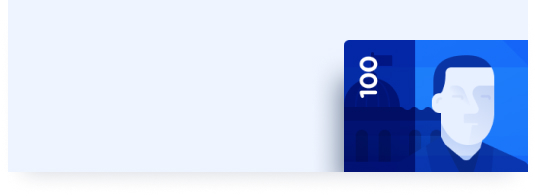
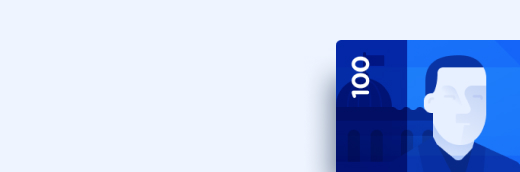
Updated use-case-bubble -amount-received image Added mixins for the modifier and responsive codes

Changed region(s): [[0.5846, 0.2035, 1.0, 1.0]]

diff --git a/sources/sass/page/components/_landing-components.scss b/sources/sass/page/components/_landing-components.scss
@@ -1,84 +1,96 @@
+@mixin use-case-bubble--amount-received {
+	max-width: 260px;
+	height: 86px;
+	color: #2044a5;
+	padding: 20px $spacing-triple $spacing-double;
+	background-size: cover;
+	box-shadow: 0px 8px 12px -8px rgba(15, 37, 69, 0.2);
+	border-radius: 8px;
+
+	> .label {
+		font: 700 1rem/1 $gotham-bold;
+		letter-spacing: -0.01em;
+		opacity: 0.8;
+	}
+
+	> .amount {
+		font: 700 2.29rem/1 $gotham-bold;
+		letter-spacing: -0.02em;
+		margin-top: $spacing-half;
+
+		> .currency {
+			display: inline-block;
+			width: 22.75px;
+			height: 28.44px;
+			padding: 1px 0 2.5px;
+			margin-right: $spacing-half;
+			background-size: 100%;
+		}
+	}
+}
+
+@mixin use-case-bubble--small-desktop {
+	&.-amount-received {
+		max-width: 151px;
+		height: 50.23px;
+		border-radius: 4.64615px;
+		padding: $spacing-secondary 14px 9px;
+
+		> .label {
+			font-size: 0.57rem;
+		}
+
+		> .amount {
+			font-size: 1.36rem;
+			margin-top: $spacing-quarter;
+
+			> .currency {
+				width: 13.21px;
+				height: 16.52px;
+				padding: 0.5px 0 1.5px;
+				margin-right: $spacing-quarter;
+			}
+		}
+	}
+}
+
+@mixin use-case-bubble--mobile {
+	&.-amount-received {
+		max-width: 127px;
+		height: 42.54px;
+		border-radius: 3.90769px;
+		padding: 9px $spacing-secondary $spacing-default;
+
+		> .label {
+			font-size: 0.5rem;
+		}
+
+		> .amount {
+			font-size: 1.14rem;
+			margin-top: 1.95px;
+
+			> .currency {
+				width: 11.11px;
+				height: 13.89px;
+				margin-right: 1.95px;
+			}
+		}
+	}
+}
+
 .use-case-bubble {
 	width: 100%;
 
 	&.-amount-received {
-		max-width: 260px;
-		height: 86px;
-		color: #2044a5;
-		padding: 20px $spacing-triple $spacing-double;
-		background-size: 100%;
-		box-shadow: 0px 8px 12px -8px rgba(15, 37, 69, 0.2);
-		border-radius: 8px;
-
-		> .label {
-			font: 700 1rem/1 $gotham-bold;
-			letter-spacing: -0.01em;
-			opacity: 0.8;
-		}
-
-		> .amount {
-			font: 700 2.29rem/1 $gotham-bold;
-			letter-spacing: -0.02em;
-			margin-top: $spacing-half;
-
-			> .currency {
-				display: inline-block;
-				width: 22.75px;
-				height: 28.44px;
-				padding: 1px 0 2.5px;
-				margin-right: $spacing-half;
-				background-size: 100%;
-			}
-		}
+		@include use-case-bubble--amount-received;
 	}
 
 	@include on(small-desktop) {
-		&.-amount-received {
-			max-width: 151px;
-			height: 50.23px;
-			border-radius: 4.64615px;
-			padding: $spacing-secondary 14px 9px;
-
-			> .label {
-				font-size: 0.57rem;
-			}
-
-			> .amount {
-				font-size: 1.36rem;
-				margin-top: $spacing-quarter;
-
-				> .currency {
-					width: 13.21px;
-					height: 16.52px;
-					padding: 0.5px 0 1.5px;
-					margin-right: $spacing-quarter;
-				}
-			}
-		}
+		@include use-case-bubble--small-desktop;
 	}
 
 	@include on(mobile) {
-		&.-amount-received {
-			max-width: 127px;
-			height: 42.54px;
-			border-radius: 3.90769px;
-			padding: 9px $spacing-secondary $spacing-default;
-
-			> .label {
-				font-size: 0.5rem;
-			}
-
-			> .amount {
-				font-size: 1.14rem;
-				margin-top: 1.95px;
-
-				> .currency {
-					width: 11.11px;
-					height: 13.89px;
-					margin-right: 1.95px;
-				}
-			}
-		}
+		@include use-case-bubble--mobile;
 	}
 }
 
@@ -242,7 +254,7 @@
 	}
 
 	> .title {
-		font: 400 2.29rem/1.3 $gotham-bold;
+		font: 700 2.29rem/1.3 $gotham-bold;
 		letter-spacing: -0.03em;
 	}
 
@@ -257,7 +269,7 @@
 		border-radius: 17px;
 
 		> .title {
-			font: 400 3.43rem/1.2 $gotham-bold;
+			font: 700 3.43rem/1.2 $gotham-bold;
 		}
 	}
 
